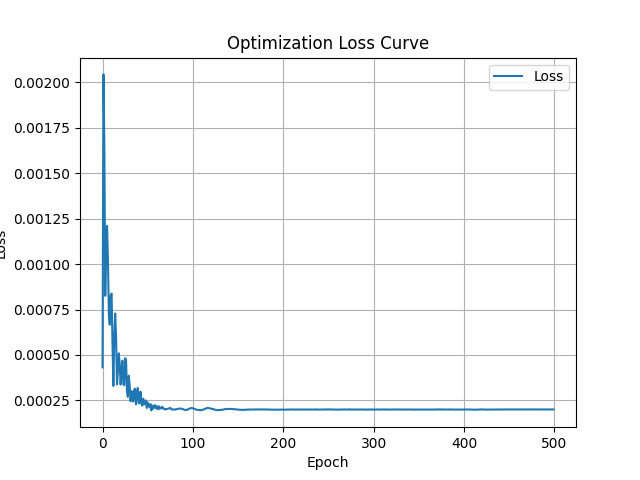
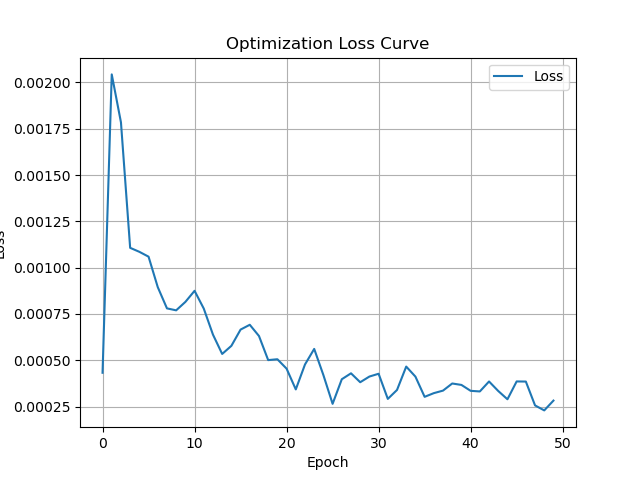
new file:   .gitignore 	modified:   loss_curve.png 	modified:   lr_curve.png 	modified:   optimize.py

diff --git a/optimize.py b/optimize.py
@@ -173,11 +173,11 @@ def main(robot_file=None, calib_file=None, base_dir=None, downsample=1.0, Epoch=
 
 if __name__ == "__main__":
     parser = argparse.ArgumentParser()
-    parser.add_argument("--downsample", type=float, default=1.0, help="体素降采样大小，单位为米，默认 0.02")
+    parser.add_argument("--downsample", type=float, default=1.0, help="体素降采样大小，单位为毫米，默认 1.0")
     parser.add_argument("--base_dir", type=str, default="./0411", help="点云文件夹路径")
     parser.add_argument("--robot_file", type=str, default="aubo_record_2025-04-11_22-15-34.txt", help="机械臂位姿文件")
     parser.add_argument("--calib_file", type=str, default="cal.txt", help="手眼标定文件")
-    parser.add_argument("--Epoch", type=int, default=500, help="迭代次数")
+    parser.add_argument("--Epoch", type=int, default=50, help="迭代次数")
     args = parser.parse_args()
 
     main(robot_file=args.robot_file,
